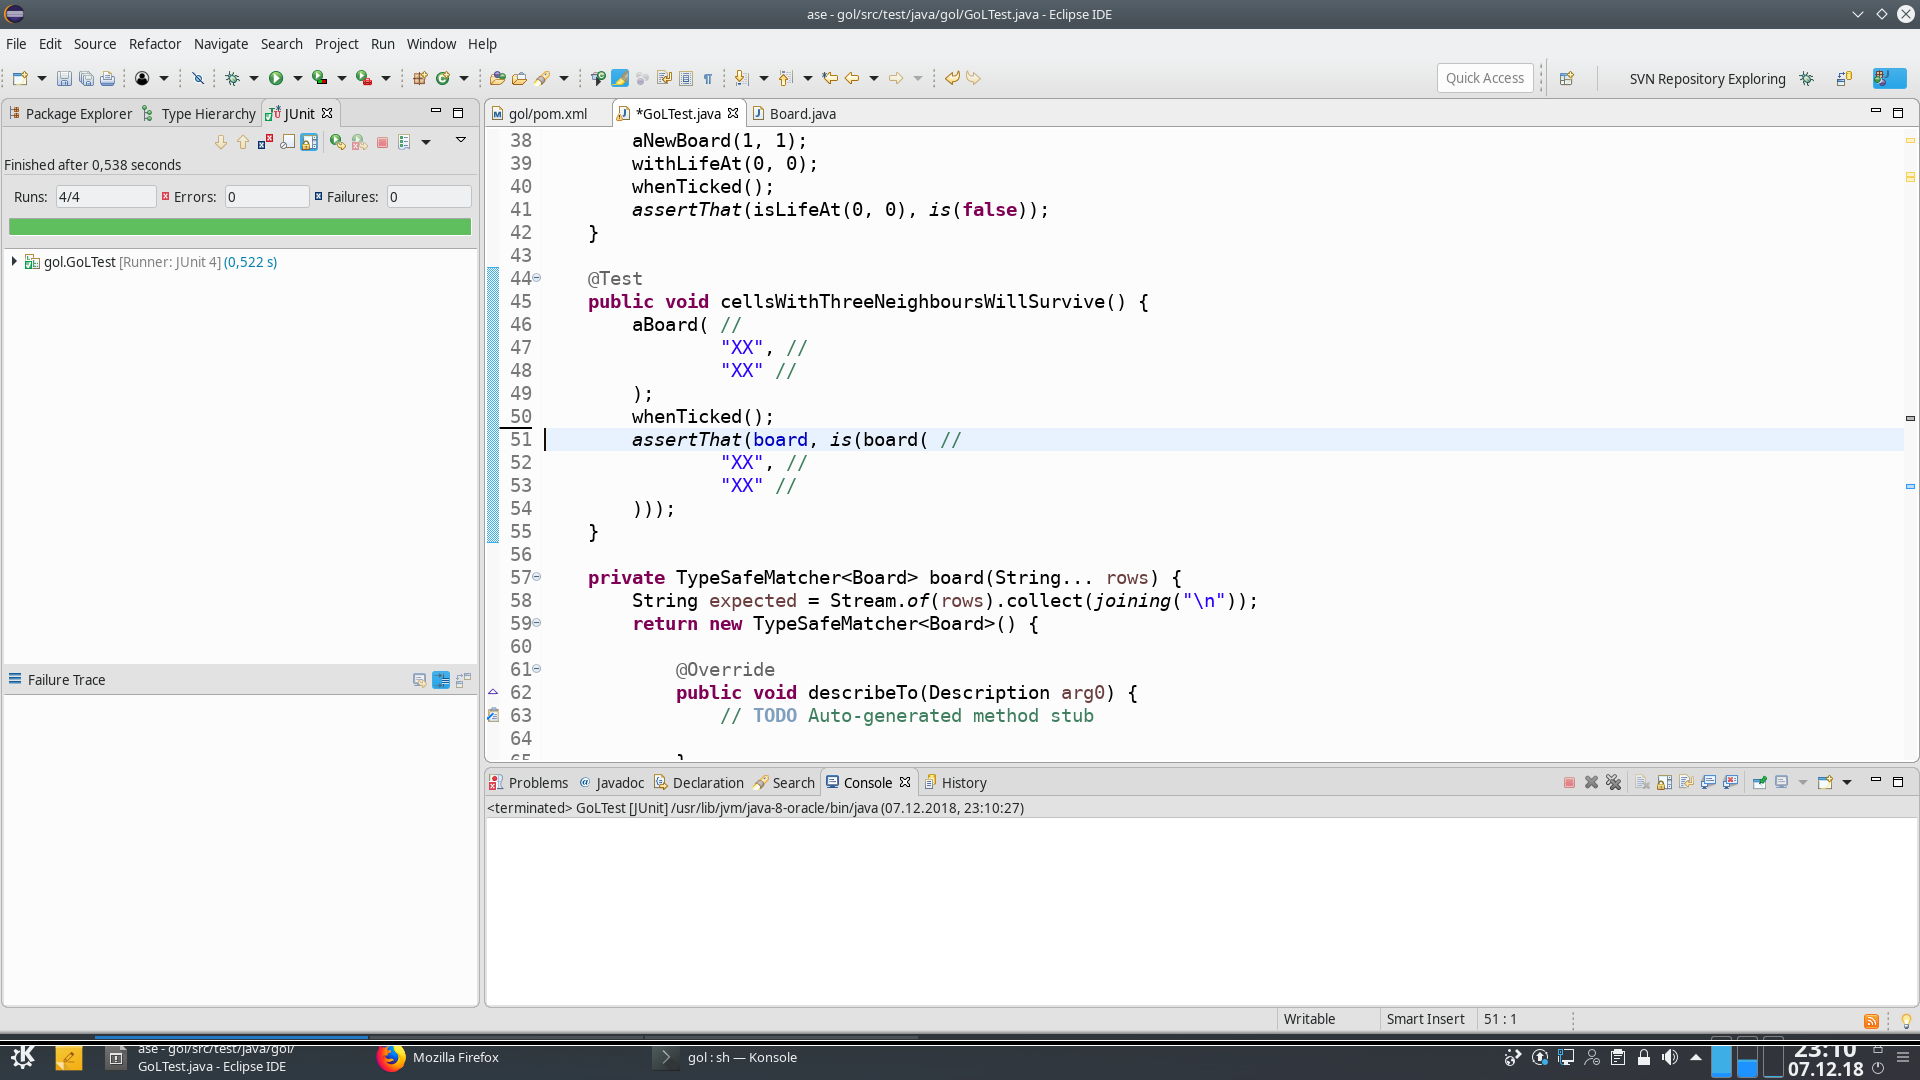
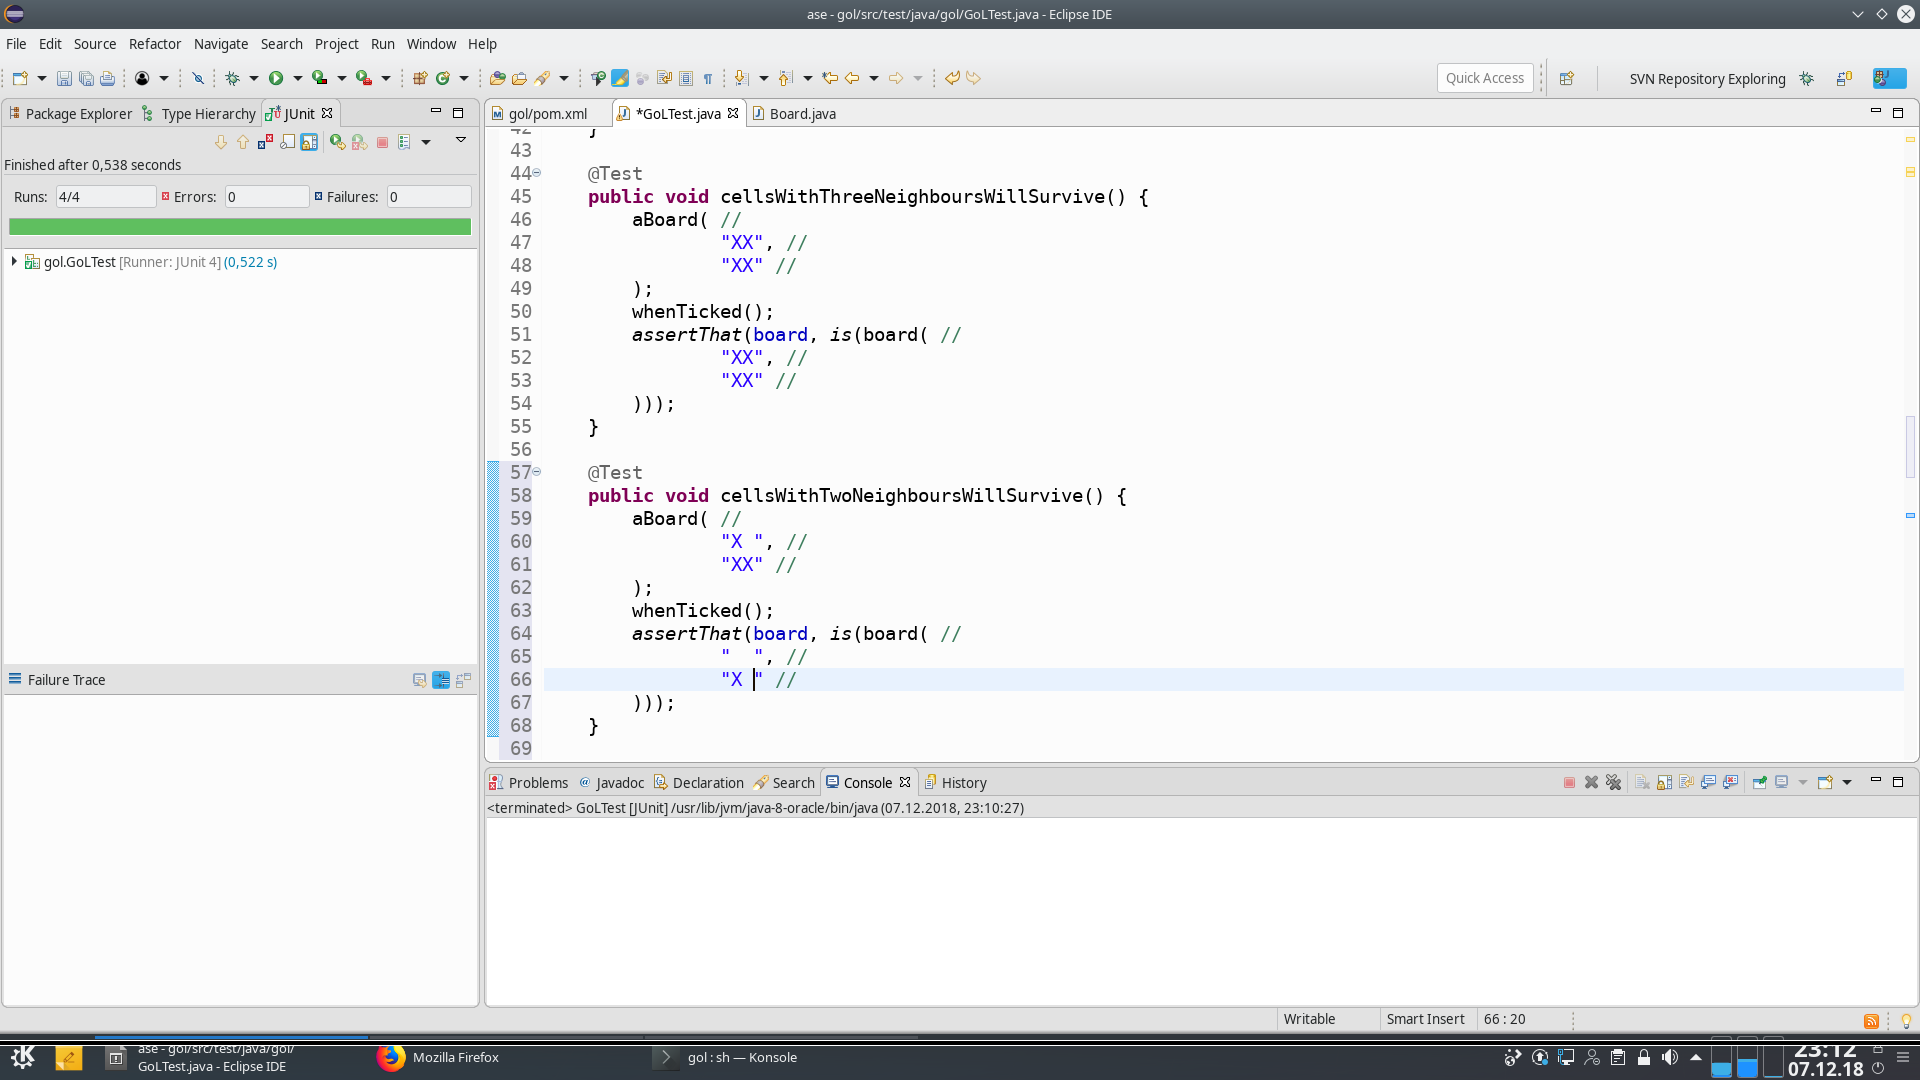
autocommit on change

diff --git a/src/test/java/gol/GoLTest.java b/src/test/java/gol/GoLTest.java
@@ -54,6 +54,19 @@ public class GoLTest {
 		)));
 	}
 
+	@Test
+	public void cellsWithTwoNeighboursWillSurvive() {
+		aBoard( //
+				"X ", //
+				"XX" //
+		);
+		whenTicked();
+		assertThat(board, is(board( //
+				"  ", //
+				"X " //
+		)));
+	}
+
 	private TypeSafeMatcher<Board> board(String... rows) {
 		String expected = Stream.of(rows).collect(joining("\n"));
 		return new TypeSafeMatcher<Board>() {
